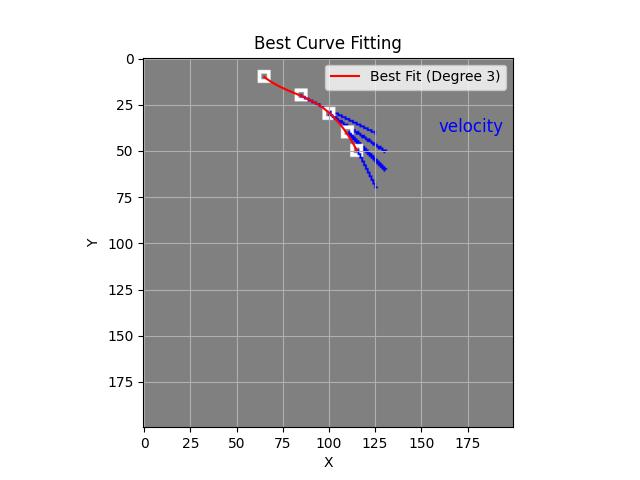
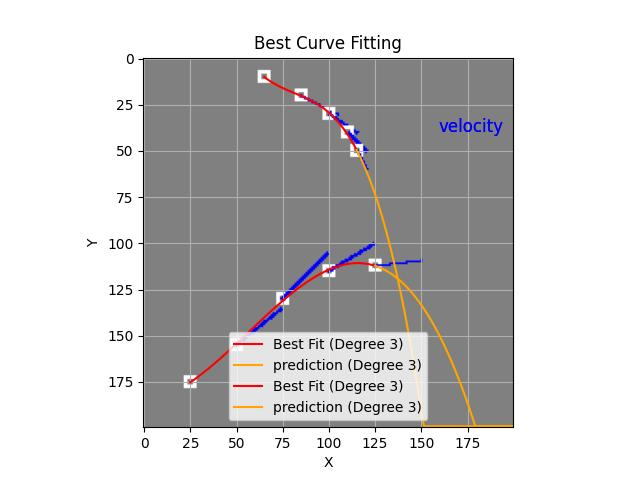
working on detecting collision

diff --git a/tracking.py b/tracking.py
@@ -7,39 +7,45 @@ import matplotlib.pyplot as plt
 from sklearn.metrics import mean_squared_error
 from matplotlib.backends.backend_agg import FigureCanvasAgg as FigureCanvas
 import io
+from scipy.integrate import quad
 
 #define the constant value here 
 WIDTH = 200
 HEIGHT = 200
 BOX_LENGTH = 3
 TIME_PERIOD = 0.03
-
-# read the point data from the json file 
-f = open("position.json")
-data = json.load(f)
-positions = data["position"]
+SAFETY_DISATNT = 8
 
 
-def draw_point(point,image):
+ 
+
+
+def draw_point(row,image):
     if image is None:
         background = Image.new('RGB',(WIDTH,HEIGHT), color="grey")
     else:
         background = image
-     
-    x,y=point
-    draw = ImageDraw.Draw(background)
+    
+    all_points = []
+    for i in range(0, len(row), 2):
+        one_point = row[i], row[i+1]
+        all_points.append(one_point)
 
-    center = point
-    radius = 2
+    for point in all_points:
+        x,y=point
+        draw = ImageDraw.Draw(background)
 
-    # Draw the circle
-    draw.ellipse((center[1]-radius, center[0]-radius,
-                center[1]+radius, center[0]+radius),
-                outline='white')
+        center = point
+        radius = 2
 
-    box_x_y = [(y-BOX_LENGTH,x-BOX_LENGTH), (y+BOX_LENGTH,x+BOX_LENGTH)]
+        # Draw the circle
+        draw.ellipse((center[1]-radius, center[0]-radius,
+                    center[1]+radius, center[0]+radius),
+                    outline='white')
 
-    draw.rectangle(box_x_y,outline="white",width=2)
+        box_x_y = [(y-BOX_LENGTH,x-BOX_LENGTH), (y+BOX_LENGTH,x+BOX_LENGTH)]
+
+        draw.rectangle(box_x_y,outline="white",width=2)
 
     # background.show()
     # background.save(direction)
@@ -56,7 +62,8 @@ def velocity_calculate(point1, point2):
 def draw_vector(start_point, direction, length, image, color='blue'):
     end_point = start_point + length * direction
     draw = ImageDraw.Draw(image)
-    draw.line([tuple(start_point), tuple(end_point)], fill=color, width=2)
+    for i in range(0,start_point.shape[0]):
+        draw.line(((start_point[i][1],start_point[i][0]), (end_point[i][1],end_point[i][0])), fill=color, width=2)
 
     # scaling_factor = 2
     # arrowhead_points = [(end_point[0] + scaling_factor * (start_point[0] - end_point[0]), 
@@ -69,79 +76,192 @@ def draw_vector(start_point, direction, length, image, color='blue'):
     return image
 
 
-def find_appoximate_curve(degrees_threshold,points,image):
-    y = points[:, 0]
-    x = points[:, 1]
-    degrees = range(1,degrees_threshold)
-    mse_values = []
-    for degree in degrees:
-        # Fit the polynomial
-        coefficients = np.polyfit(x, y, degree)
-        
-        # Evaluate the polynomial
-        y_fit = np.polyval(coefficients, x)
-        
-        # Calculate mean squared error
-        mse = mean_squared_error(y, y_fit)
-        mse_values.append(mse)
-
-    best_degree = degrees[np.argmin(mse_values)]
-
-    best_coefficients = np.polyfit(x, y, best_degree)
-    x_curve = np.linspace(min(x), max(x), 100)
-    y_curve = np.polyval(best_coefficients, x_curve)
-
-    # Plot the data points and the best curve fit
+def find_appoximate_curve(degrees_threshold,All_points,image):
     fig, ax = plt.subplots()
     ax.imshow(image)
-    ax.plot(x_curve, y_curve, color='red', label=f'Best Fit (Degree {best_degree})')
-    ax.text(0.8,0.8, f'velocity', fontsize=12, color='blue',ha='left', transform=ax.transAxes)
-    ax.set_xlabel('X')
-    ax.set_ylabel('Y')
-    ax.set_title('Best Curve Fitting')
-    ax.legend()
-    ax.grid(True)
+
+    functions = []
+
+    for i in range(0, All_points.shape[1], 2):
     
-    # Convert the plot to an image object
-    canvas = FigureCanvas(fig)
-    buf = io.BytesIO()
-    canvas.print_png(buf)
-    buf.seek(0)
-    pil_image = Image.open(buf)
+        points = All_points[:,i:i+2]
+    
+        y = points[:,0]
+        x = points[:,1]
+        degrees = range(1,degrees_threshold)
+        mse_values = []
+        
+        for degree in degrees:
+            # Fit the polynomial
+            coefficients = np.polyfit(x, y, degree)
+            
+            # Evaluate the polynomial
+            y_fit = np.polyval(coefficients, x)
+            
+            # Calculate mean squared error
+            mse = mean_squared_error(y, y_fit)
+            mse_values.append(mse)
+
+        best_degree = degrees[np.argmin(mse_values)]
+
+        best_coefficients = np.polyfit(x, y, best_degree)
+        x_curve = np.linspace(min(x), max(x), 100)
+        y_curve = np.polyval(best_coefficients, x_curve)
+
+
+        #collect the functions 
+        poly_function = np.poly1d(best_coefficients)
+        functions.append(poly_function)
+        # print("the function expression is: ", poly_function)
+
+        x_curve_pred = np.linspace(max(x), WIDTH-1, 100)
+        y_curve_pred = np.minimum (np.polyval(best_coefficients, x_curve_pred), HEIGHT-1)
+
+        # Plot the data points and the best curve fit
+        # fig, ax = plt.subplots()
+        # ax.imshow(image)
+        ax.plot(x_curve, y_curve, color='red', label=f'Best Fit (Degree {best_degree})')
+        ax.plot(x_curve_pred, y_curve_pred, color='orange', label=f'prediction (Degree {best_degree})')
+
+        ax.text(0.8,0.8, f'velocity', fontsize=12, color='blue',ha='left', transform=ax.transAxes)
+        ax.set_xlabel('X')
+        ax.set_ylabel('Y')
+        ax.set_title('Best Curve Fitting')
+        ax.legend()
+        ax.grid(True)
+        
+        # Convert the plot to an image object
+        canvas = FigureCanvas(fig)
+        buf = io.BytesIO()
+        canvas.print_png(buf)
+        buf.seek(0)
+        pil_image = Image.open(buf)
+
+
+
 
     # Convert image to RGB mode if it's RGBA
     if pil_image.mode == 'RGBA':
         pil_image = pil_image.convert('RGB')
-    
-    return pil_image
 
+    # pil_image.show()
+    
+    return pil_image, functions
+
+def check_intersection(func1, func2):
+    x_range = np.linspace(0, WIDTH)
+
+    y1 = func1(x_range)
+    y2 = func2(x_range)
+
+    intersection = any(np.sign(y1) != np.sign(y2))
+    return intersection
+
+def collision_detection(function_list, All_latest_points, All_average_speed = 10): #assume All_latest_points is a 2 collom matrix 
+    for i in range(len(function_list)):
+        for j in range (i+1, len(function_list)) :
+            function_1 = function_list[i]
+            function_2 = function_list[j]
+
+            if check_intersection(function_1, function_2):
+                print("intersection")
+                #starting to check the distance between this two points 
+                point_1_x = All_latest_points[i][0]
+                point_2_x = All_latest_points[j][0]
+                 
+                
+
+                
+
+def calculate_average_speed(function, curr_points): #assume here the curr_point is a 2D colume matrix
+    start_x = curr_points[0][0]
+    end_x = curr_points[curr_points.shape[0]][0]
+    curve_length = quad(function,start_x,end_x)
+    return curve_length
+    
 
 def main():
+    # read the point data from the json file 
+    f = open("position.json")
+    data = json.load(f)
+    positions = data["position"]
+    positions_2 = data["position_2"]
+
+    mat_pos_1 = np.array(positions)
+    mat_pos_2 = np.array(positions_2)
+    mat_pos = np.concatenate((mat_pos_1, mat_pos_2),axis=1)
+    
     folder_dir = "/home/yuzhen/Desktop/EECS442/final_project/frames"
     old_point = None
     curr_point = None
+    All_curr_points = []
     curr_points = []
     curr_img = None
-    for index, position in enumerate (positions):
-        curr_points.append(position)
-        curr_point = np.array([position[1], position[0]])
+    all_position = [positions, positions_2]
+
+
+    
+    for index, row in enumerate (mat_pos):
+        curr_points.append(row)
+        curr_point = row
         file_direction = os.path.join(folder_dir, f"{index}.jpg")
         print(file_direction)
-        image = draw_point(position,curr_img)
+        image = draw_point(row,curr_img)
         curr_img = image
         if old_point is not None:
-            start_point = np.array([old_point[1], old_point[0] ])
-            direction = curr_point - start_point
-            distance = np.linalg.norm(direction)
+            start_point = old_point.reshape(-1,2) ## each row is a point coordination
+            curr_point = curr_point.reshape(-1,2)
+            print ("start_point: ",start_point)
+            print ("curr_point: ", curr_point)
+            # exit(0)
+            direction = curr_point - start_point # here is a row
+            distance = [np.linalg.norm((pair[0],pair[1])) for pair in direction]
+            distance = (np.array(distance)).reshape(-1,1)
             unit_direction = direction / distance
-            final_image = draw_vector(curr_point, unit_direction,distance*2,image)
+            final_image = draw_vector(curr_point, unit_direction,distance,image)
             degrees_threshold = 4
-            final_image = find_appoximate_curve(degrees_threshold,np.array(curr_points),final_image)
-            final_image.save(file_direction)
-             
-        else:
-            image.save(file_direction)
-        old_point = position
+            final_image, functions = find_appoximate_curve(degrees_threshold,np.array(curr_points),final_image)
+            ##detect the function cross:
+            collision_detection(functions,curr_point)
+            final_image.save(file_direction) 
+        # else:
+        #     image.save(file_direction)
+        old_point = row
+
+    #reset for the next for loop 
+    old_point = None
+    curr_point = None
+    curr_points = []
+
+
+
+
+    # for obj_index, temp_positions in enumerate(all_position):
+    #     for index, position in enumerate (temp_positions):
+    #         curr_points.append(position)
+    #         curr_point = np.array([position[1], position[0]])
+    #         file_direction = os.path.join(folder_dir, f"{obj_index}_{index}.jpg")
+    #         print(file_direction)
+    #         image = draw_point(position,curr_img)
+    #         curr_img = image
+    #         if old_point is not None:
+    #             start_point = np.array([old_point[1], old_point[0] ])
+    #             direction = curr_point - start_point
+    #             distance = np.linalg.norm(direction)
+    #             unit_direction = direction / distance
+    #             final_image = draw_vector(curr_point, unit_direction,distance*2,image)
+    #             degrees_threshold = 4
+    #             final_image = find_appoximate_curve(degrees_threshold,np.array(curr_points),final_image)
+    #             final_image.save(file_direction) 
+                
+    #         # else:
+    #         #     image.save(file_direction)
+    #         old_point = position
+
+    #     #reset for the next for loop 
+    #     old_point = None
+    #     curr_point = None
+    #     curr_points = []
 
 
 if __name__ == "__main__":
